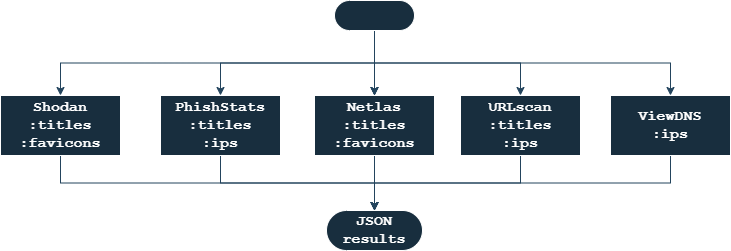
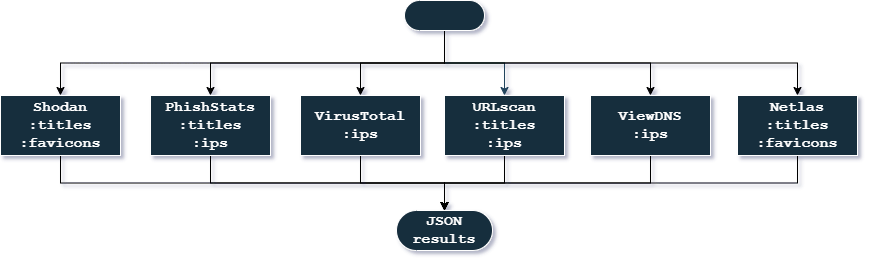
added VT

Changed region(s): [[0.0, 0.2231, 1.0, 1.0], [0.4514, 0.0, 0.5718, 0.1394]]

diff --git a/README.md b/README.md
@@ -7,17 +7,18 @@
 
 ### Search by:
 * favicons hashes (mmh3, sha256);
-* ips;
+* ips (relations hosts on IP);
 * \<title\> keywords;
 
 ## Retrieves data from resources:
-|                Resource                |           API limits            |
-|:--------------------------------------:|:-------------------------------:|
-|    [Shodan](https://www.shodan.io/)    |                *                |
-|     [URLscan](https://urlscan.io/)     |                *                |
-| [PhishStats](https://phishstats.info/) |                *                |
-|    [ViewDNS](https://viewdns.info/)    | Free API 250 requests per month |
-|      [Netlas](https://netlas.io/)      |          daily limits           ||
+|                 Resource                  |           API limits            |
+|:-----------------------------------------:|:-------------------------------:|
+|     [Shodan](https://www.shodan.io/)      |                *                |
+|      [URLscan](https://urlscan.io/)       |                *                |
+|  [PhishStats](https://phishstats.info/)   |                *                |
+|     [ViewDNS](https://viewdns.info/)      | Free API 250 requests per month |
+| [VirusTotal](https://www.virustotal.com/) |   	Free API 500 lookups / day   |
+|       [Netlas](https://netlas.io/)        |          daily limits           ||
 
 
 #### Add API keys for working with resources in the file `src/config.py`
